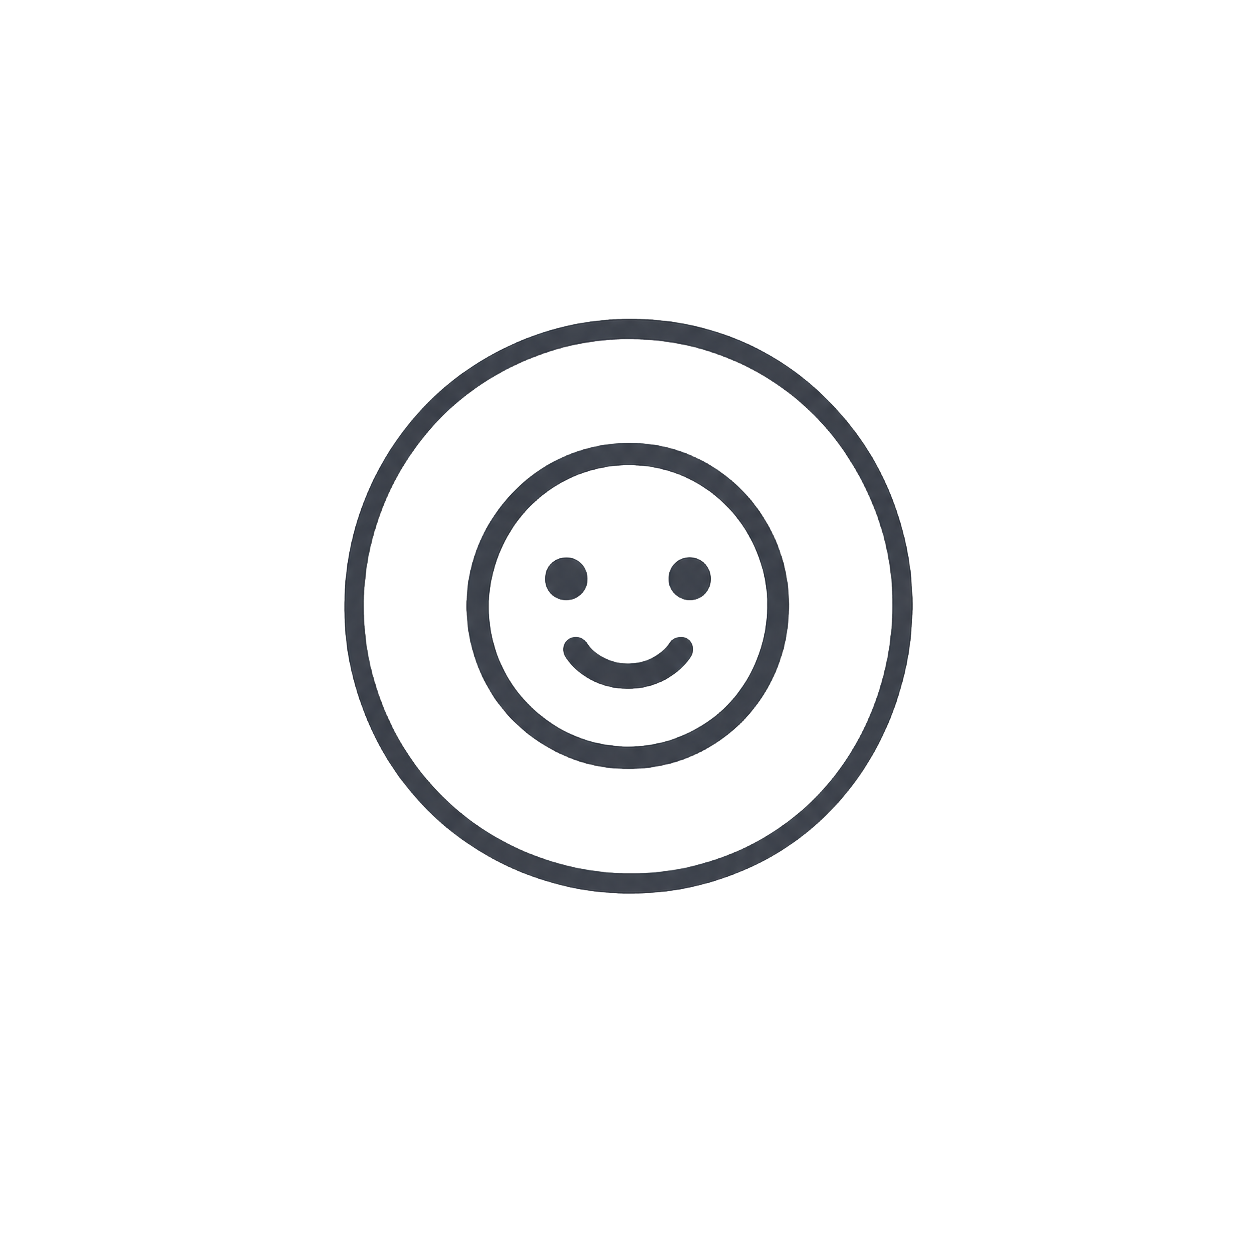
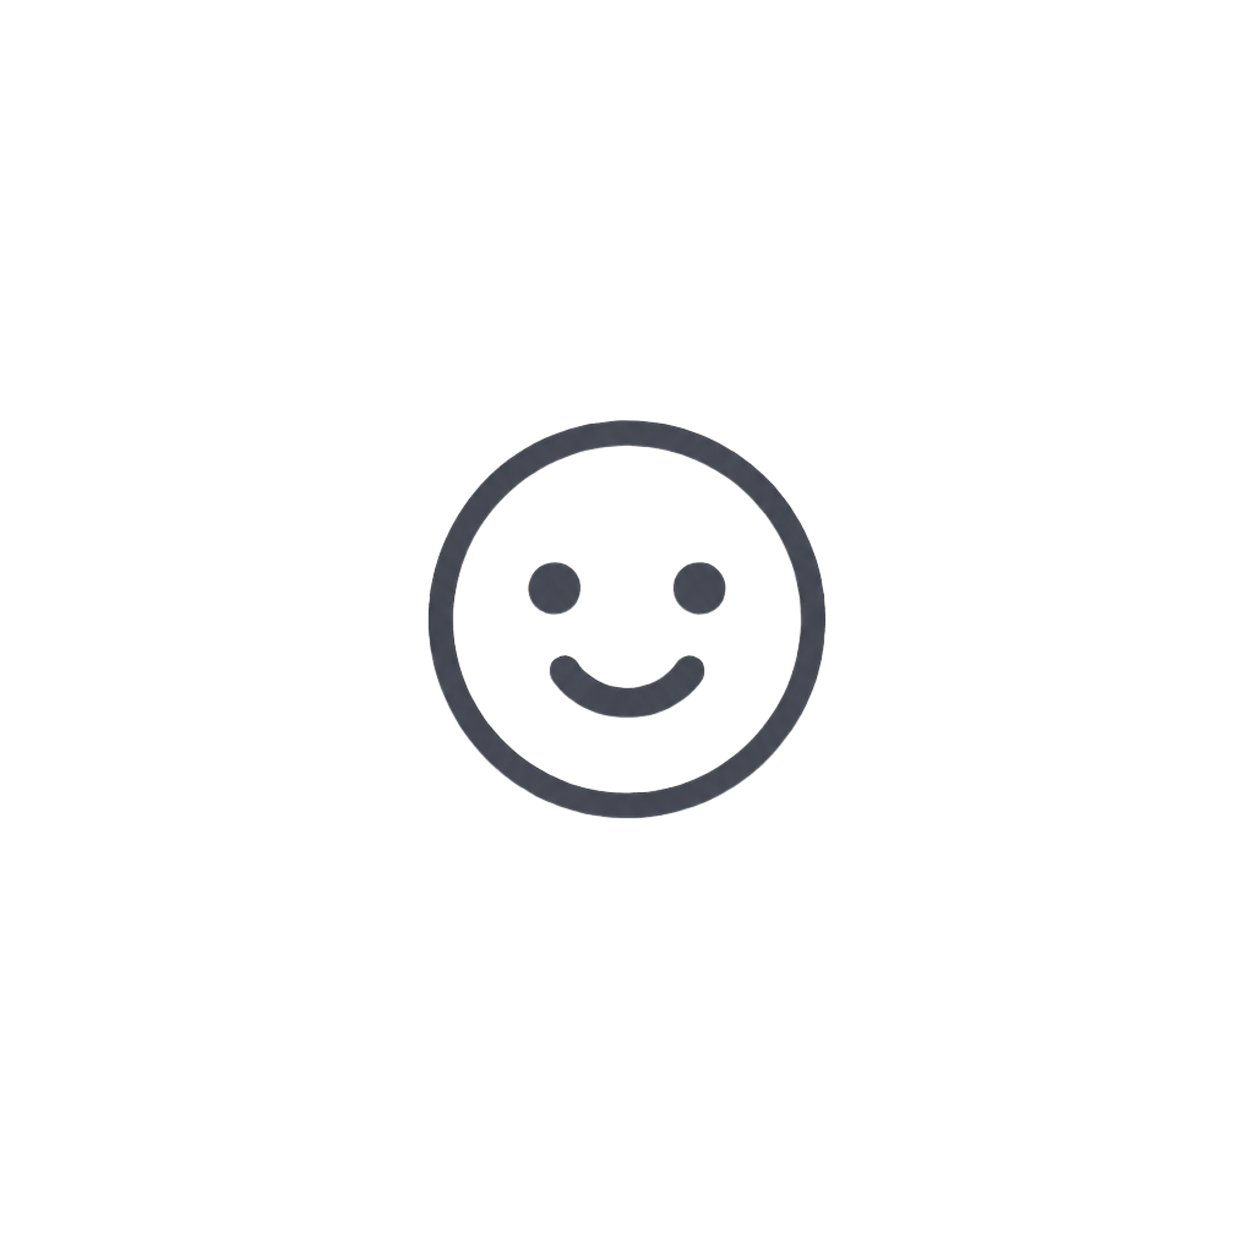
feat: add url-bar link text, popular repositories heading, and visual-cluster name label

Changed region(s): [[0.2488, 0.2488, 0.7464, 0.7153]]

diff --git a/css/work.css b/css/work.css
@@ -50,6 +50,18 @@
   margin-left: -280px;
 }
 
+.work-topbar__url-text {
+  position: absolute;
+  top: 85px;              /* ↑ nudge to vertically center inside the bar image */
+  left: 53%;
+  margin-left: -250px;    /* ↔ nudge in from the bar's left edge (bar itself starts at -280px) */
+  font-family: 'HalfTermSchoolsOut', sans-serif;
+  font-size: 1rem;
+  color: #333;
+  white-space: nowrap;
+  z-index: 2;
+}
+
 /* nav row icons — each now independently positioned instead of flex-aligned */
 .work-nav-row {
   position: relative;
@@ -138,18 +150,50 @@
   height: auto;
 }
 
-.work-visual-cluster__smiley {
+.work-visual-cluster__smiley-badge {
   position: absolute;
-  top: 10px;
-  left: 20px;
+  top: 275px;
+  left: 260px;
   width: 40px;
+  height: 40px;
+  background: #ffffff;
+  border-radius: 50%;
+  border: 2px solid #e0e0e0;
+  display: flex;
+  align-items: center;
+  justify-content: center;
+  z-index: 2;
+  box-shadow: 0 1px 3px rgba(0,0,0,0.15);
+}
+
+.work-visual-cluster__smiley {
+  width: 50px;
+  max-width: none;   /* overrides the global img { max-width: 100% } reset */
   height: auto;
+}
+
+.work-visual-cluster__name {
+  position: absolute;
+  top: 340px;              /* ↑ below the smiley badge (badge sits at top: 275px, ~40px tall) */
+  left: 100px;              /* ↔ roughly centered under flork */
+  font-family: 'HalfTermSchoolsOut', sans-serif;
+  font-size: 1.1rem;
+  color: #333;
+}
+
+.project-cards__heading {
+  position: absolute;
+  top: 280px;             /* ↑ just above .project-cards' own top: 320px */
+  left: 320px;             /* ↔ matches .project-cards' left, so it lines up with the cards */
+  font-family: 'ShinyPaint', sans-serif;
+  font-size: 1.5rem;
+  color: #333;
 }
 
 /* project cards — no more grid, each card is its own free-floating block */
 .project-cards {
   position: absolute;   /* was: relative — now it can be moved as a whole */
-  top: 300px;               /* ↑ negative = up, positive = down — moves ALL 4 cards together */
+  top: 320px;               /* ↑ negative = up, positive = down — moves ALL 4 cards together */
   left: 320px;              /* ↔ negative = left, positive = right — moves ALL 4 cards together */
   height: 600px;
 }

diff --git a/work.html b/work.html
@@ -80,6 +80,7 @@
 
           <div class="work-topbar">
             <img src="img/workpage/url-bar.png" alt="" class="work-topbar__url" />
+            <span class="work-topbar__url-text">https://github.com/Veroush</span>
           </div>
 
           <div class="work-nav-row">
@@ -124,9 +125,13 @@
 
           <div class="work-visual-cluster">
             <img src="img/workpage/flork2.png" alt="" class="work-visual-cluster__flork" />
-            <img src="img/workpage/smiley-face.png" alt="" class="work-visual-cluster__smiley" />
+            <div class="work-visual-cluster__smiley-badge">
+              <img src="img/workpage/smiley-face.png" alt="" class="work-visual-cluster__smiley" />
+            </div>
+            <span class="work-visual-cluster__name">Veroush</span>
           </div>
 
+          <h2 class="project-cards__heading">Popular repositories</h2>
           <div class="project-cards">
 
             <!-- Card 1: Studie4SU -->